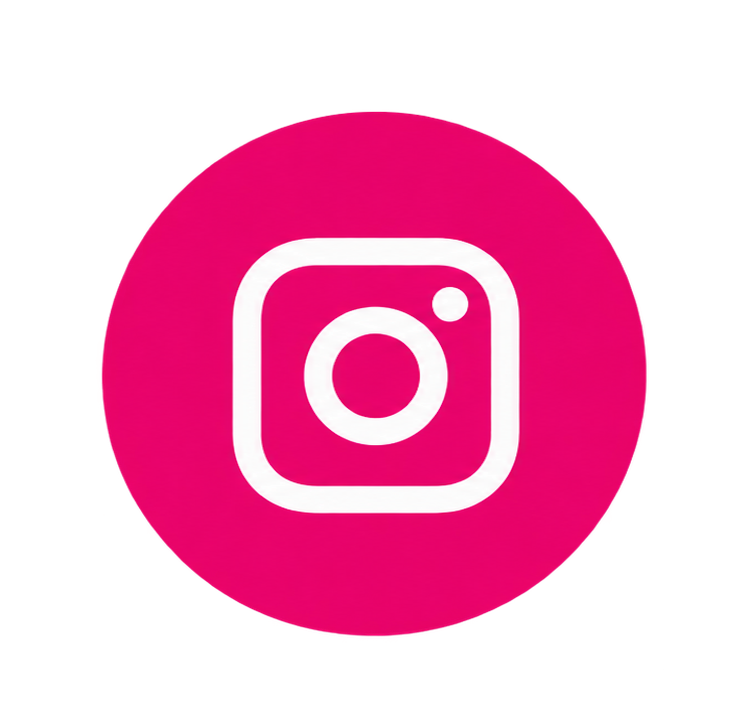
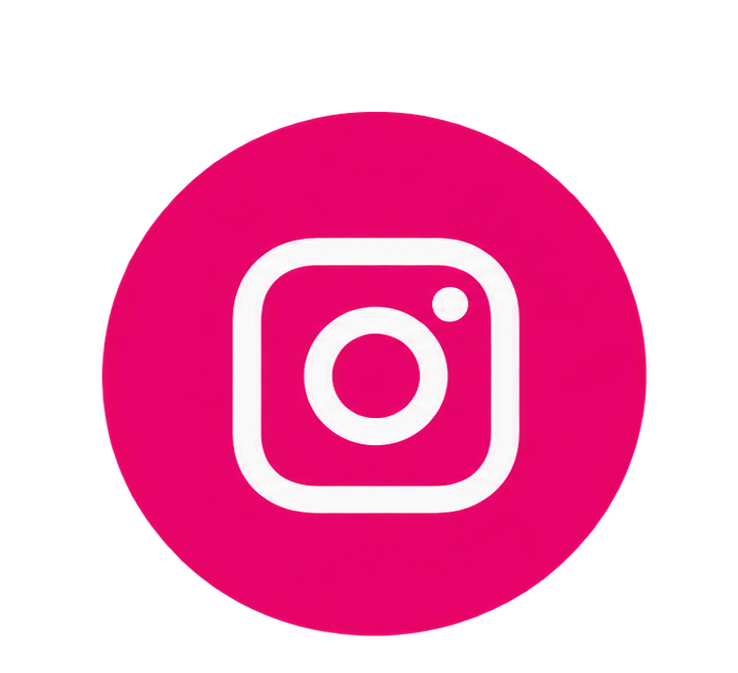
corecion de instagram

diff --git a/index.html b/index.html
@@ -199,7 +199,7 @@
 
                 <div class="redes">
                     <a href="https://www.facebook.com/restaurantelamimbre" target="_blank" rel="noopener noreferrer" aria-label="Facebook"><img src="img/facebook.png" alt="Facebook"></a>
-                    <a href="https://www.instagram.com/mimbrerestaurante" target="_blank" rel="noopener noreferrer" aria-label="Instagram"><img src="img/instagram.png" alt="Instagram"></a>
+                    <a href="https://www.instagram.com/mimbrerestaurante" target="_blank" rel="noopener noreferrer" aria-label="Instagram"><img src="img/Instagram1.jpg" alt="Instagram"></a>
                     <a href="https://restaurantelamimbre.es/" target="_blank" rel="noopener noreferrer" aria-label="Google"><img src="img/google.png" alt="Google"></a>
                 </div>
             </div>
